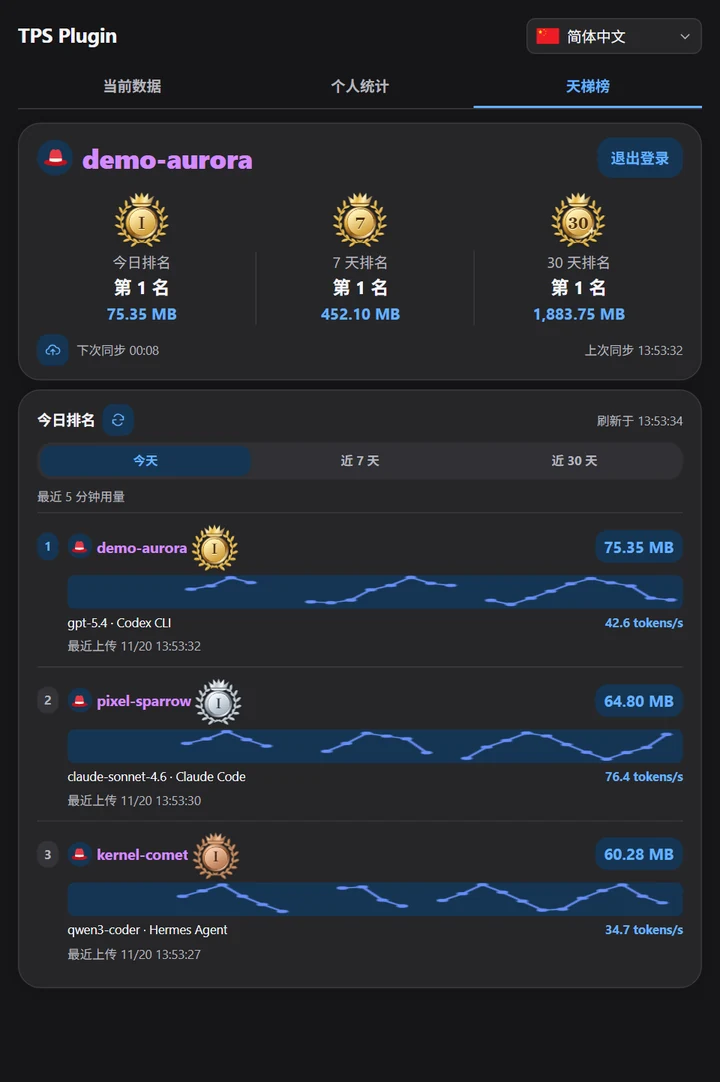
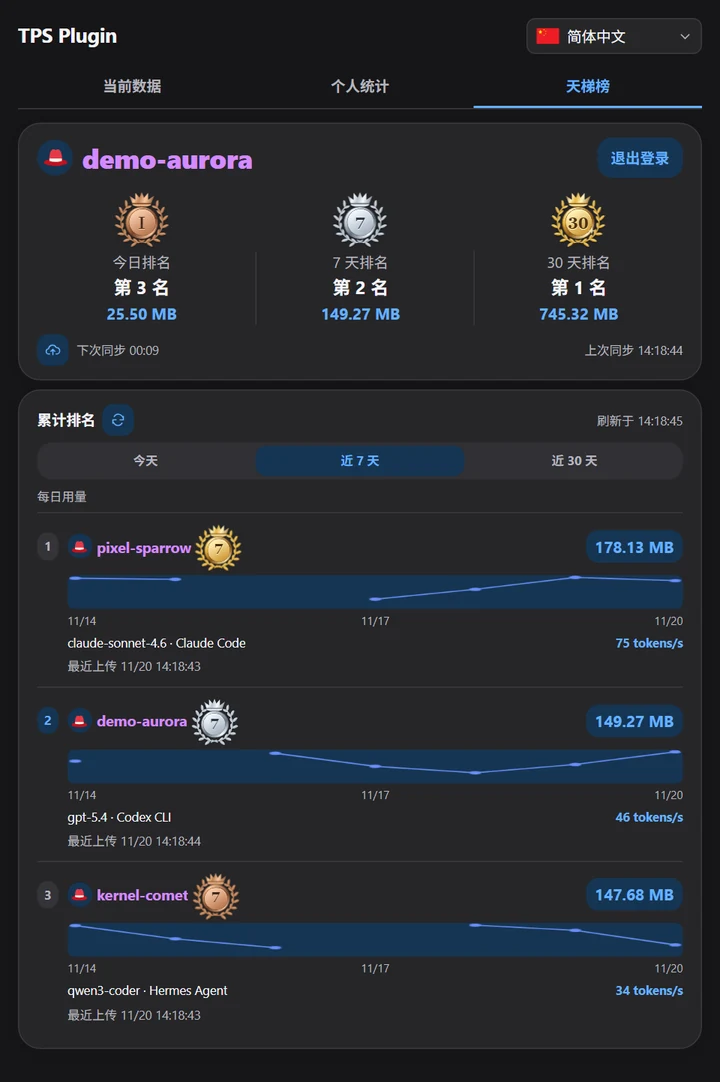
feat: show daily usage on weekly and monthly leaderboards

diff --git a/src/panel.html b/src/panel.html
@@ -286,6 +286,7 @@
       display: block; width: 100%; height: 30px; border-radius: 6px;
       background: var(--button-bg); color: var(--blue);
     }
+    .ladder-chart-axis { display: flex; justify-content: space-between; color: var(--muted); font-size: 10px; margin-top: 3px; }
     .ladder-recent-meta { display: flex; align-items: baseline; justify-content: space-between; gap: 6px; margin-top: 4px; font-size: 11px; }
     .ladder-recent-tools { min-width: 0; overflow: hidden; white-space: nowrap; text-overflow: ellipsis; }
     .ladder-recent-speed { flex: none; color: var(--blue); white-space: nowrap; }
@@ -1364,7 +1365,7 @@
       const messageFor = code => Object.hasOwn(messages, code) ? t(messages[code]) : undefined;
       let model, session, pendingLogin, retryLogin, rankDays = 1;
       const cachedRankings = new Map(), summaryQueue = new Set(), rankRequests = new Map();
-      const RANK_REFRESH_MS = 10_000, RECENT_STATS_MS = 5 * 60_000;
+      const RANK_REFRESH_MS = 10_000, RECENT_STATS_MS = 5 * 60_000, DAY_MS = 86_400_000;
       let rankingPending, sessionPushVersion = 0, rankingSubscription;
       let busy = false, restoringSession = false, manualSyncPending = false;
       let revision = 0, drawnRows = '', renderedDay = '', loginProblem = '', messageCode = '';
@@ -1513,7 +1514,9 @@
         return badge;
       }
 
-      function recentCard(recent, now) {
+      const usageChartLabel = () => t(rankDays === 1 ? 'leaderboard-five-minute-usage' : 'leaderboard-daily-usage');
+
+      function usageCard({ recent, daily }, now) {
         const container = document.createElement('div'), chart = document.createElement('canvas');
         const meta = document.createElement('div'), tools = document.createElement('span'), speed = document.createElement('strong');
         container.className = 'ladder-recent';
@@ -1521,11 +1524,18 @@
         chart.width = 320;
         chart.height = 60;
         chart.setAttribute('role', 'img');
-        chart.setAttribute('aria-label', t('leaderboard-five-minute-usage'));
+        chart.setAttribute('aria-label', usageChartLabel());
         meta.className = 'ladder-recent-meta';
         tools.className = 'ladder-recent-tools';
         speed.className = 'ladder-recent-speed';
-        const points = recent?.points ?? [], latest = points.at(-1);
+        const byDay = rankDays > 1, latest = recent?.points.at(-1);
+        const points = byDay ? daily ?? [] : recent?.points ?? [];
+        const dayStart = day => Date.parse(day + 'T00:00:00Z');
+        const dateLabel = time => locale.date(time, { timeZone: 'UTC', month: 'numeric', day: 'numeric' });
+        const timeOf = point => byDay ? dayStart(point.day) : point.submittedAt;
+        const tokensOf = point => byDay ? point.tokens : point.deltaTokens;
+        const span = byDay ? (rankDays - 1) * DAY_MS : RECENT_STATS_MS;
+        const left = (byDay ? dayStart(renderedDay) : now) - span;
         const speedText = value => Number.isFinite(value) ? `${locale.number(value, { maximumFractionDigits: 1 })} tokens/s` : '—';
         const cli = recent?.topCli;
         const cliLabel = Object.hasOwn(AGENT_LABELS, cli) ? AGENT_LABELS[cli] : cli;
@@ -1533,15 +1543,29 @@
         tools.title = tools.textContent;
         speed.textContent = speedText(latest?.avgTps);
         speed.title = t('leaderboard-average-speed');
-        const pointTitle = point => `${shortClock(point.submittedAt)} · ${locale.number(point.deltaTokens)} Token · ${speedText(point.avgTps)}`;
-        chart.title = latest ? `${t('leaderboard-five-minute-usage')}\n${pointTitle(latest)}` : t('leaderboard-five-minute-usage');
+        const pointTitle = point => byDay ? `${point.day} · ${formatTokenMB(point.tokens)}`
+          : `${shortClock(point.submittedAt)} · ${locale.number(point.deltaTokens)} Token · ${speedText(point.avgTps)}`;
+        const latestPoint = points.at(-1);
+        chart.title = latestPoint ? `${usageChartLabel()}\n${pointTitle(latestPoint)}` : usageChartLabel();
         meta.append(tools, speed);
-        container.append(chart, meta);
-        if (!latest) return container;
-        const size = 4, left = now - RECENT_STATS_MS, width = chart.width - size * 2, height = chart.height - size * 2;
-        const maximum = Math.max(1, ...points.map(point => point.deltaTokens));
-        const x = point => size + width * Math.min(1, (point.submittedAt - left) / RECENT_STATS_MS);
-        const y = point => size + height * (1 - point.deltaTokens / maximum);
+        container.append(chart);
+        if (byDay) {
+          const axis = document.createElement('div');
+          axis.className = 'ladder-chart-axis';
+          for (const offset of [0, Math.round((rankDays - 1) / 2), rankDays - 1]) {
+            const label = document.createElement('span');
+            label.textContent = dateLabel(left + offset * DAY_MS);
+            axis.append(label);
+          }
+          container.append(axis);
+        }
+        container.append(meta);
+        if (!latestPoint) return container;
+        const size = 4, width = chart.width - size * 2, height = chart.height - size * 2;
+        const maximum = Math.max(1, ...points.map(tokensOf));
+        const x = point => size + width * Math.min(1, (timeOf(point) - left) / span);
+        const y = point => size + height * (1 - tokensOf(point) / maximum);
+        const maxGap = byDay ? DAY_MS : RANK_REFRESH_MS * 1.5;
         const ctx = chart.getContext('2d');
         if (ctx) {
           ctx.strokeStyle = ctx.fillStyle = '#678ef7';
@@ -1549,7 +1573,7 @@
           ctx.beginPath();
           let previous = null;
           for (const point of points) {
-            if (previous && point.submittedAt - previous.submittedAt <= RANK_REFRESH_MS * 1.5) ctx.lineTo(x(point), y(point));
+            if (previous && timeOf(point) - timeOf(previous) <= maxGap) ctx.lineTo(x(point), y(point));
             else ctx.moveTo(x(point), y(point));
             previous = point;
           }
@@ -1564,7 +1588,8 @@
           const rect = chart.getBoundingClientRect();
           const position = (event.clientX - rect.left) * chart.width / rect.width;
           const nearest = points.reduce((a, b) => Math.abs(x(a) - position) <= Math.abs(x(b) - position) ? a : b);
-          chart.title = pointTitle(nearest);
+          chart.title = byDay && Math.abs(x(nearest) - position) > width * DAY_MS / span / 2
+            ? usageChartLabel() : pointTitle(nearest);
         });
         return container;
       }
@@ -1578,11 +1603,11 @@
           if (points.length) nextRecentExpiry = Math.min(nextRecentExpiry, points[0].submittedAt + RECENT_STATS_MS);
           return { ...row, recent: { ...row.recent, points } };
         });
-        const signature = JSON.stringify([rankDays, username, rows]);
+        const signature = JSON.stringify([rankDays, renderedDay, username, rows]);
         if (signature === drawnRows) return;
         const period = periods.find(entry => entry.days === rankDays);
         drawnRows = signature;
-        const keyOf = row => JSON.stringify([rankDays, username === row.username, row]);
+        const keyOf = row => JSON.stringify([rankDays, renderedDay, username === row.username, row]);
         rankingNodes = updateList(element('rows'), rows, rankingNodes, keyOf, row => {
           const item = document.createElement('li');
           if (username && row.username === username) item.classList.add('ladder-self');
@@ -1609,7 +1634,7 @@
           time.setAttribute('data-localized-text', '');
           time.textContent = t('last-upload-at', uploaded);
           time.dateTime = new Date(row.submittedAt).toISOString();
-          item.append(rank, user, total, recentCard(row.recent, now), time);
+          item.append(rank, user, total, usageCard(row, now), time);
           return item;
         });
         // Rows changed after a sync: give a still-default account avatar another chance too.
@@ -1733,6 +1758,7 @@
         element('rows').setAttribute('aria-label', t(rankDays === 1 ? 'daily-usage-rankings' : 'period-rankings'));
         element('empty').textContent = rankDays === 1 ? t('empty-today') : t('empty-rankings');
         element('empty').hidden = !ranking || ranking.rows.length > 0;
+        element('recent-caption').textContent = usageChartLabel();
         element('recent-caption').hidden = !ranking?.rows.length;
         const username = signedIn ? account.username : '';
         renderRows(ranking?.rows ?? [], username);
@@ -1773,7 +1799,7 @@
       function cacheRanking(result, days) {
         const { board, updatedAt } = result;
         if (!Number.isSafeInteger(updatedAt) || board?.day !== boardDay() || !Array.isArray(board.rows)) return false;
-        const rows = board.rows.map(({ rank, username, tokens, submittedAt, recent }) => ({ rank, username, tokens, submittedAt, recent }));
+        const rows = board.rows.map(({ rank, username, tokens, submittedAt, recent, daily }) => ({ rank, username, tokens, submittedAt, recent, daily }));
         cachedRankings.set(days, { day: board.day, rows, updatedAt });
         return true;
       }

diff --git a/docs/superpowers/specs/2026-11-20-leaderboard-five-minute-stats-design.md b/docs/superpowers/specs/2026-11-20-leaderboard-five-minute-stats-design.md
@@ -51,9 +51,11 @@
 | 时机 | 处理方式 |
 | --- | --- |
 | 正常查看 | 今日、近 7 天、近 30 天共用 10 秒自动拉取间隔，与自动提交间隔一致。新增统计随当前榜单请求返回。 |
-| 打开、切换周期、手动刷新 | 立即读取所选周期当前的前 100 名和每人最近 5 分钟的记录，随后恢复 10 秒间隔。 |
+| 打开、切换周期、手动刷新 | 立即读取所选周期当前的前 100 名和对应的用量图记录，随后恢复 10 秒间隔。 |
 | 断线恢复 | 读取服务器此刻的快照，替换本地数据。 |
 | 离开榜单 | 暂停看榜的自动拉取。 |
+
+今日榜用提交时间画最近 5 分钟的点。近 7 天和近 30 天榜使用 `daily=1`，每行额外返回 `daily`，由已有的每日榜单成绩组成，格式为 `{ day, tokens }`。日期按北京时间划分，窗口包含今天，缺记录的日期留空。每天的点显示该账号在当天的累计用量。日曲线响应只带最近一笔提交的短期数据，供卡片显示速度、模型和 CLI。
 
 新版使用 `GET /api/today?days=1&stats=1` 请求完整榜单，`days` 可为 `1`、`7` 或 `30`。公开快照按周期共用。正常自动拉取使用 `If-None-Match` 带上上一份快照的 `ETag`，服务端在快照内容一致时返回 `304`。打开、切换周期、手动刷新和断线恢复时取完整快照。缓存到下一条记录过期时也要更新。新增统计沿用同一次榜单请求，进出前 100 名以该次返回的名单为准。
 
@@ -76,7 +78,7 @@
 }
 ```
 
-看榜端用名单渲染卡片，有变化的行才更新显示。顶部用量对应所选榜单周期，底部时间取榜单成绩的最后成功提交时间。曲线合并同账号所有设备的提交点，速度、模型和 CLI 显示最近一笔统计所在设备给出的值。曲线按实际记录绘制，空档留白。最近 5 分钟没有记录时，曲线为空，三项统计显示 `—`。
+看榜端用名单渲染卡片，有变化的行才更新显示。顶部用量对应所选榜单周期，底部时间取榜单成绩的最后成功提交时间。今日榜曲线合并同账号所有设备的提交点。速度、模型和 CLI 显示最近一笔统计所在设备给出的值，最近 5 分钟没有记录时显示 `—`。各周期的曲线按实际记录绘制，空档留白。
 
 ## 修改范围与验收
 

diff --git a/README.md b/README.md
@@ -54,13 +54,13 @@ Open **TPS Plugin** in Orca’s right sidebar to switch between **Current Data**
 ### 3.3 Leaderboard
 
 - Browse today’s, 7-day, and 30-day rankings. Entries show GitHub avatars, and the top three get gold, silver, and bronze medals.
-- The top 100 entries show their last five minutes of submitted usage, average generation speed, most-used model and CLI, and last upload time. The leaderboard refreshes every 10 seconds while open.
+- The top 100 entries show submitted usage points for the last five minutes on Today and one point per Beijing calendar day on the 7-day and 30-day tabs. Entries also show the latest average generation speed, most-used model and CLI, and last upload time. The leaderboard refreshes every 10 seconds while open.
 - Sign in with GitHub to participate. The leaderboard combines usage across installations linked to the same account. The plugin fetches avatars directly from GitHub and shows a built-in red hat avatar until one loads. Missing avatars are retried after the next sync, and a loaded avatar is reused everywhere it appears.
 - While signed in, the plugin attempts to sync every 10 seconds. Manual sync shares the same interval. The account card shows the countdown, the last successful sync, and any recent error.
 
 <p align="center">
   <a href="./assets/readme/en/leaderboard.png" title="View full-size screenshot">
-    <img src="./assets/readme/en/leaderboard.webp" width="266" alt="English Leaderboard tab showing ranks, five-minute usage curves, models, CLIs, and average speeds">
+    <img src="./assets/readme/en/leaderboard.webp" width="266" alt="English 7-day leaderboard showing ranks, daily usage curves, models, CLIs, and average speeds">
   </a>
 </p>
 
